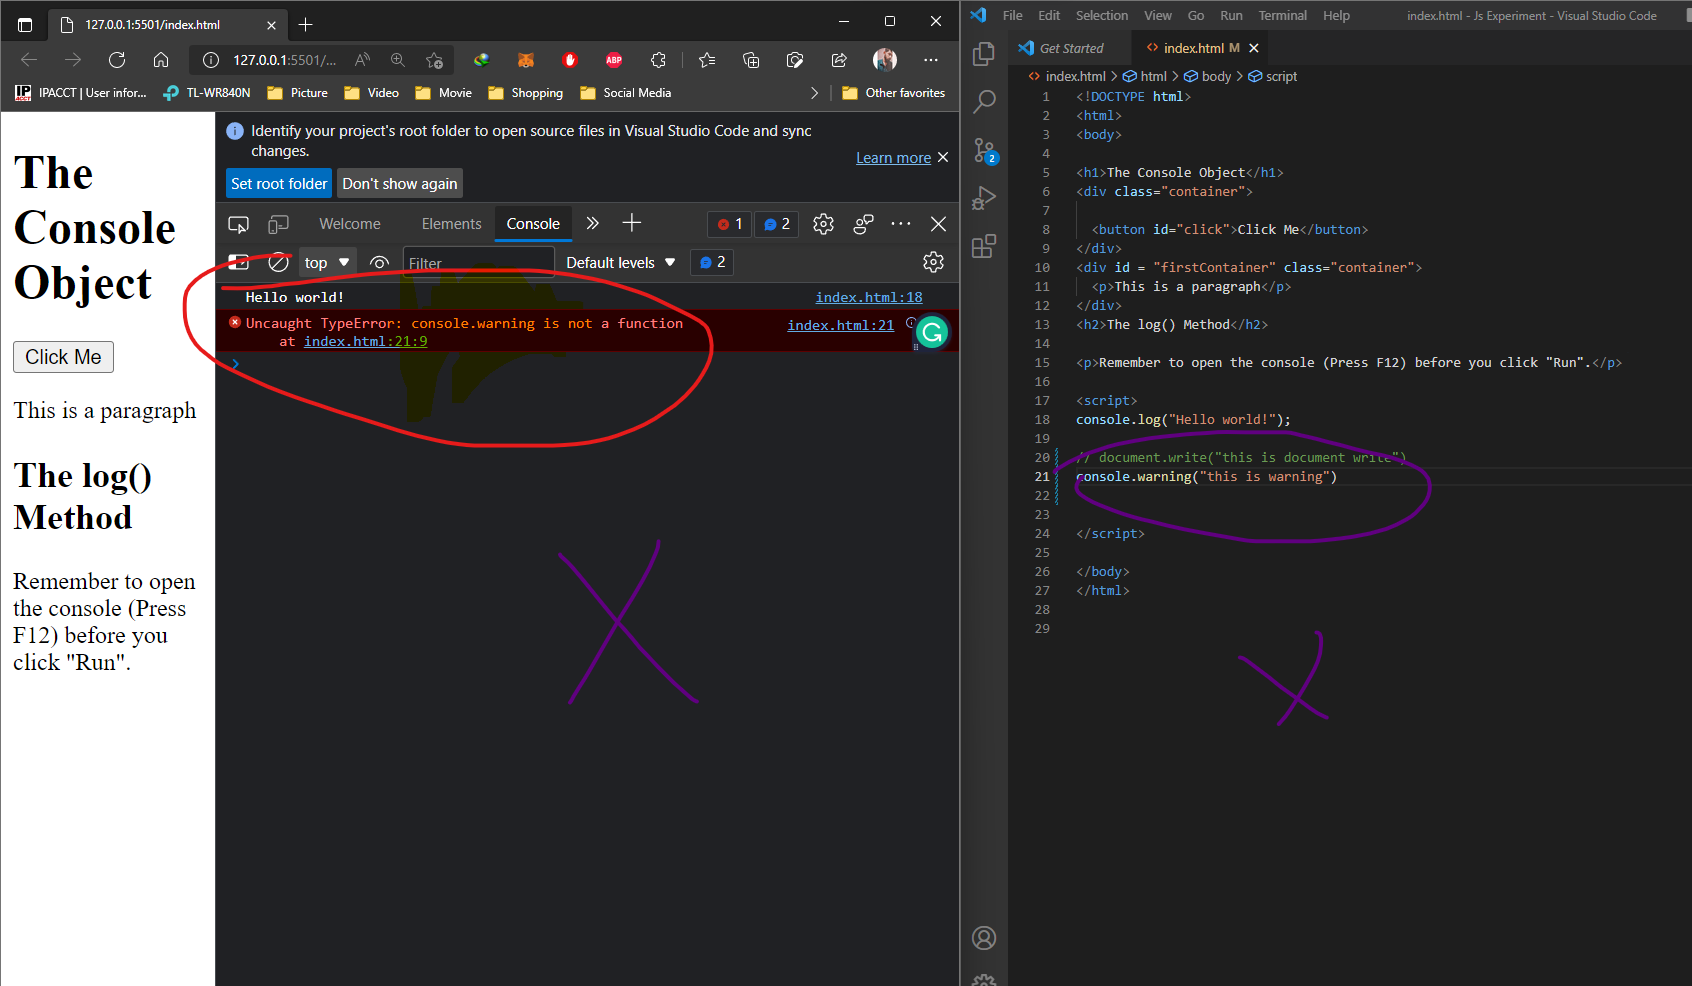
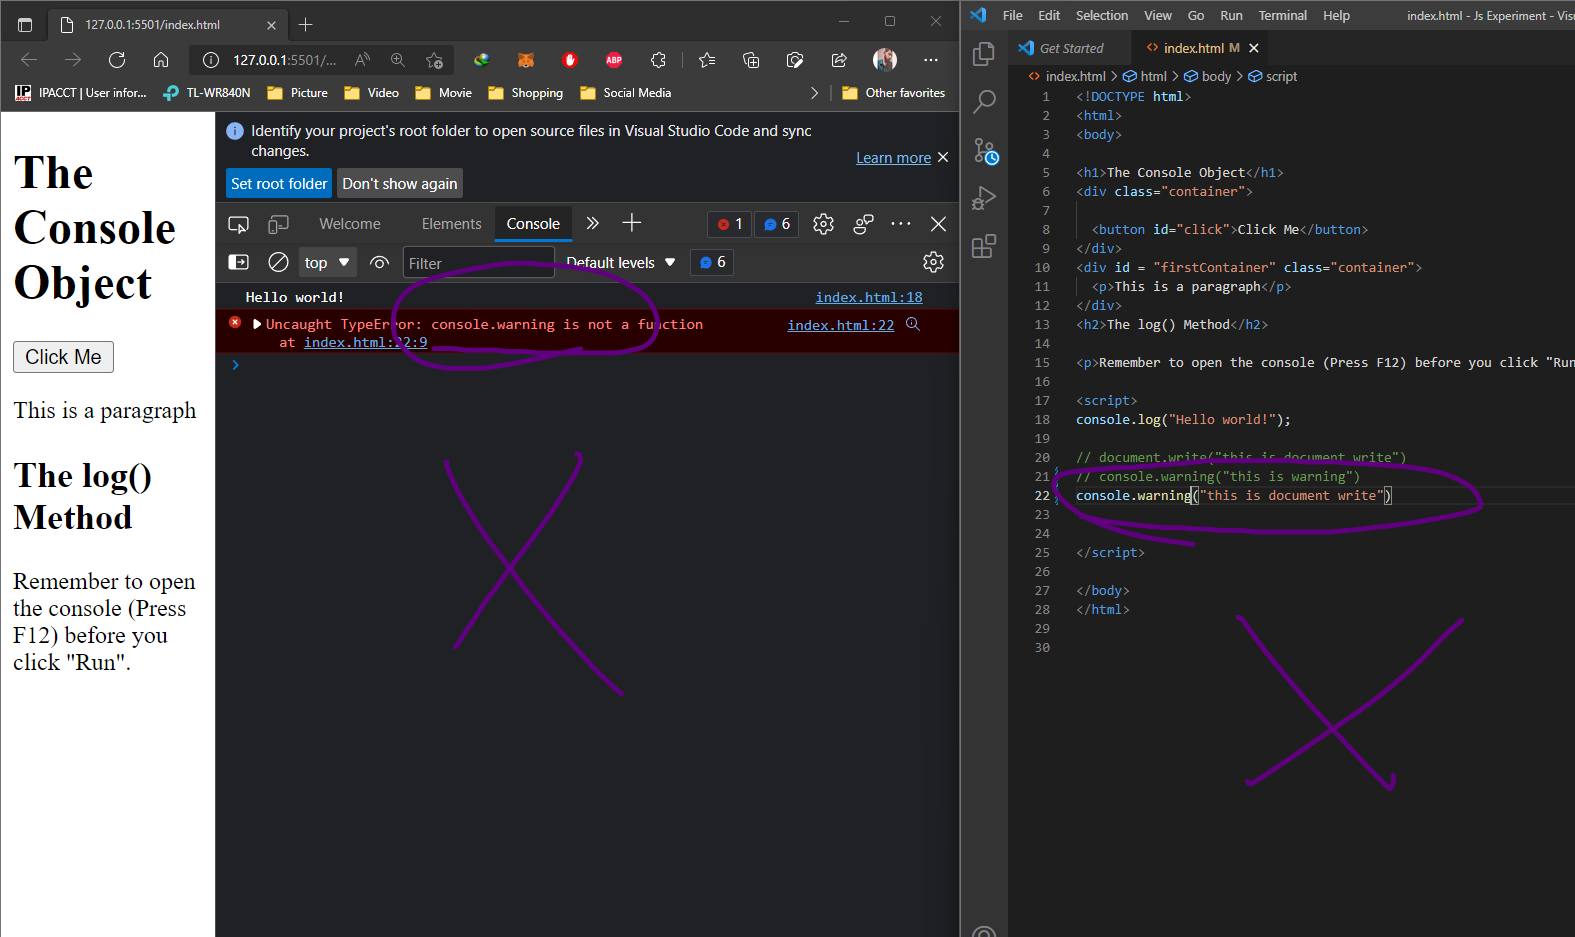
19 replace

diff --git a/Js Experiment/index.html b/Js Experiment/index.html
@@ -18,7 +18,8 @@
 console.log("Hello world!");
 
 // document.write("this is document write")
-console.warning("this is warning")
+// console.warning("this is warning")
+console.warning("this is document write")
 
 
 </script>

diff --git a/README.md b/README.md
@@ -330,5 +330,19 @@ document.write("this is document write")
 ```
 ### Display the warning messages on the console
 
+This is Wrong
+
+<p align="center">
+        <img src="https://github.com/Subham-Maity/javascript-tutorial-/blob/master/Image(ignore)/19.png?raw=true"/>
+        </p>
 
 
+The correct way to write the console message is 
+
+<p align="center">
+        <img src="https://github.com/Subham-Maity/javascript-tutorial-/blob/master/Image(ignore)/20.png?raw=true"/>
+        </p>
+
+```javascript
+document.warn("this is document write")
+```
